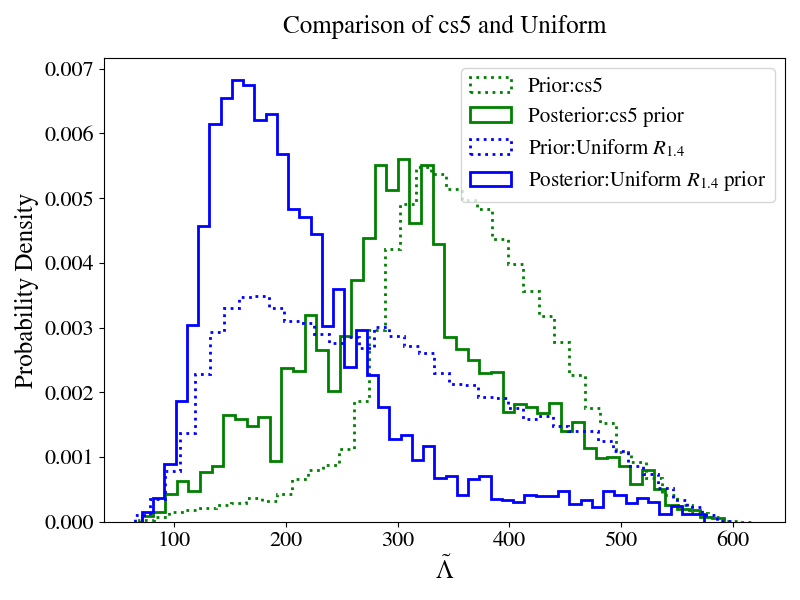
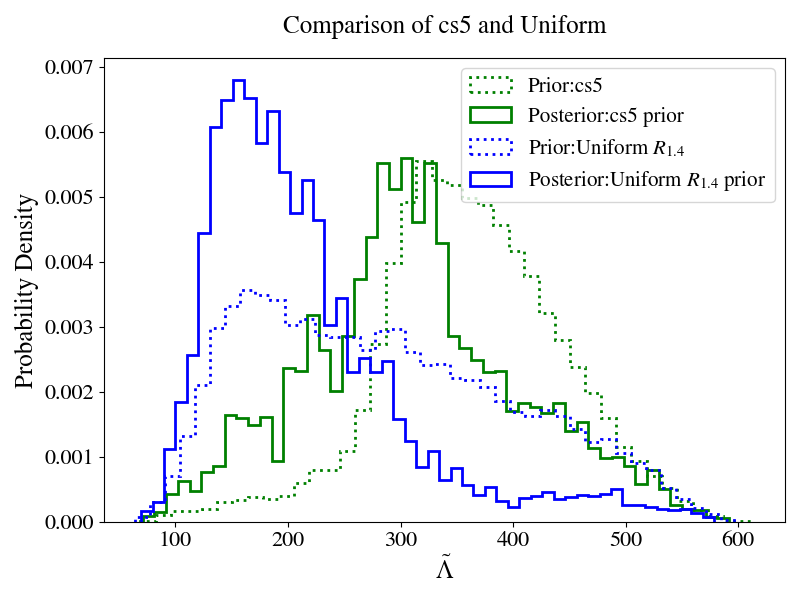
more plots with up to date uniform posterior

diff --git a/pycbc_runs/scripts/cs3prior_post_w_uniform.py b/pycbc_runs/scripts/cs3prior_post_w_uniform.py
@@ -1,0 +1,224 @@
+#! /usr/bin/env python -v
+
+import warnings
+warnings.filterwarnings('ignore')
+import numpy
+
+from matplotlib import pyplot as plt
+from matplotlib import rcParams
+rcParams['font.family'] = 'stixgeneral'
+rcParams['mathtext.fontset'] = 'stix'
+
+import pycbc
+from pycbc import conversions, cosmology
+from pycbc.distributions import Uniform, Gaussian
+from pycbc.conversions import primary_mass, secondary_mass
+
+
+labels = ['lambda1', 'lambda2', 'lambda_tilde', 'mass1', 'mass2', 'radius', 'mchirp', 'eos', 'radius_1p4']
+samples_prior_rec2nsat = {l: [] for l in labels}
+distance = 40.7
+
+dist_eos = Uniform(eos=(1, 2000.9))
+dist_m = Uniform(mass1=(1.0, 2.0), mass2=(1.0, 2.0))
+for (e,), (m1, m2) in zip(dist_eos.rvs(size=1000000), dist_m.rvs(size=1000000)):
+    #if m1 < m2:
+    #    continue
+    m1p = primary_mass(m1, m2)
+    m2s = secondary_mass(m1, m2)
+    # apply mchirp
+    mchirp = conversions.mchirp_from_mass1_mass2(m1p, m2s)
+    if not 1.1876 < mchirp < 1.2076:
+        continue
+
+    e = int(e)
+
+    MRLname = 'cs3MRL/'
+
+    tov_file = '/global/cscratch1/sd/bkingast/EOS_inference/EOS/LANL_Project_eos/' + MRLname + str(e) + '.dat'
+    data = numpy.loadtxt(tov_file)
+    radius_from_file = data[:, 0]
+    mass_from_file = data[:, 1]
+    lambda_from_file = data[:, 2]
+
+    m1_src = m1p/(1.0 + pycbc.cosmology.redshift(distance))
+    r1 = numpy.interp(m1_src, mass_from_file, radius_from_file)
+    l1 = numpy.interp(m1_src, mass_from_file, lambda_from_file)
+
+    m2_src = m2s/(1.0 + pycbc.cosmology.redshift(distance))
+    l2 = numpy.interp(m2_src, mass_from_file, lambda_from_file)
+    r2 = numpy.interp(m2_src, mass_from_file, radius_from_file)
+
+    lt = conversions.lambda_tilde(m1_src, m2_src, l1, l2)
+
+    r_1p4 = numpy.interp(1.4, mass_from_file, radius_from_file)
+
+    samples_prior_rec2nsat['mass1'].append(m1)
+    samples_prior_rec2nsat['mass2'].append(m2)
+    #samples4['mchirp'].append(mchirp)
+    #samples4['radius'].append(r)
+    #samples4['lambda_s'].append(l)
+    samples_prior_rec2nsat['lambda1'].append(l1)
+    samples_prior_rec2nsat['lambda2'].append(l2)
+    samples_prior_rec2nsat['lambda_tilde'].append(lt)
+    samples_prior_rec2nsat['radius_1p4'].append(r_1p4)
+
+
+samples_prior_uniform = {l: [] for l in labels}
+
+for (e,), (m1, m2) in zip(dist_eos.rvs(size=1000000), dist_m.rvs(size=1000000)):
+    #if m1 < m2:
+    #    continue
+    m1p = primary_mass(m1, m2)
+    m2s = secondary_mass(m1, m2)
+    # apply mchirp
+    mchirp = conversions.mchirp_from_mass1_mass2(m1p, m2s)
+    if not 1.1876 < mchirp < 1.2076:
+        continue
+
+    e = int(e)
+
+    MRLname = 'uniform/'
+
+    tov_file = '/global/cscratch1/sd/bkingast/EOS_inference/EOS/LANL_Project_eos/' + MRLname + str(e) + '.dat'
+    data = numpy.loadtxt(tov_file)
+    radius_from_file = data[:, 0]
+    mass_from_file = data[:, 1]
+    lambda_from_file = data[:, 2]
+
+    m1_src = m1p/(1.0 + pycbc.cosmology.redshift(distance))
+    r1 = numpy.interp(m1_src, mass_from_file, radius_from_file)
+    l1 = numpy.interp(m1_src, mass_from_file, lambda_from_file)
+
+    m2_src = m2s/(1.0 + pycbc.cosmology.redshift(distance))
+    l2 = numpy.interp(m2_src, mass_from_file, lambda_from_file)
+    r2 = numpy.interp(m2_src, mass_from_file, radius_from_file)
+
+    lt = conversions.lambda_tilde(m1_src, m2_src, l1, l2)
+
+    r_1p4 = numpy.interp(1.4, mass_from_file, radius_from_file)
+
+    samples_prior_uniform['mass1'].append(m1)
+    samples_prior_uniform['mass2'].append(m2)
+    #samples4['mchirp'].append(mchirp)
+    #samples4['radius'].append(r)
+    #samples4['lambda_s'].append(l)
+    samples_prior_uniform['lambda1'].append(l1)
+    samples_prior_uniform['lambda2'].append(l2)
+    samples_prior_uniform['lambda_tilde'].append(lt)
+    samples_prior_uniform['radius_1p4'].append(r_1p4)
+
+from pycbc.inference.io import loadfile
+from pycbc.conversions import lambda_tilde
+
+samples_post_rec2nsat = {l: [] for l in labels}
+
+fp=loadfile('/global/cscratch1/sd/bkingast/LANL_project/pycbc_runs/data/cs5_0829_ind.hdf','r+')
+
+#parameters = fp['samples'].keys()
+#samples = fp.read_samples(parameters, flatten=True)
+m1=primary_mass(fp['samples']['mass1'][0:8000], fp['samples']['mass2'][0:8000])
+m2=secondary_mass(fp['samples']['mass1'][0:8000], fp['samples']['mass2'][0:8000])
+l1=fp['samples']['lambda1'][0:8000]
+l2=fp['samples']['lambda2'][0:8000]
+r1p4=fp['samples']['radius_1p4'][0:8000]
+
+#m1=samples['mass1']
+samples_post_rec2nsat['mass1'] = m1
+samples_post_rec2nsat['mass2'] = m2
+samples_post_rec2nsat['lambda1'] = l1
+samples_post_rec2nsat['lambda2'] = l2
+samples_post_rec2nsat['lambda_tilde'] = lambda_tilde(m1,m2,l1,l2)
+samples_post_rec2nsat['radius_1p4'] = r1p4
+
+
+samples_post_uniform = {l: [] for l in labels}
+
+fp=loadfile('/global/cscratch1/sd/bkingast/LANL_project/pycbc_runs/data/uniform_1017_ind.hdf','r+')
+
+#parameters = fp['samples'].keys()
+#samples = fp.read_samples(parameters, flatten=True)
+m1=primary_mass(fp['samples']['mass1'][0:8000], fp['samples']['mass2'][0:8000])
+m2=secondary_mass(fp['samples']['mass1'][0:8000], fp['samples']['mass2'][0:8000])
+l1=fp['samples']['lambda1'][0:8000]
+l2=fp['samples']['lambda2'][0:8000]
+r1p4=fp['samples']['radius_1p4'][0:8000]
+
+#m1=samples['mass1']
+samples_post_uniform['mass1'] = m1
+samples_post_uniform['mass2'] = m2
+samples_post_uniform['lambda1'] = l1
+samples_post_uniform['lambda2'] = l2
+samples_post_uniform['lambda_tilde'] = lambda_tilde(m1,m2,l1,l2)
+samples_post_uniform['radius_1p4'] = r1p4
+
+# plot lambda_tilde priors and posterior
+fig, ax = plt.subplots(1, 1, figsize=(8, 6))
+params = ['lambda_s']
+ax_labels = [r'$\tilde \Lambda$']
+#ax_bounds = [(0, 5000), (0, 5000), (0, 5000), (1.6, 18)]
+#for a, p, l, b in zip(ax.flatten(), params, ax_labels, ax_bounds):
+#for a, p, l in zip(ax.flatten(), params, ax_labels):
+#max_param_val = int(max(samples4[p]))
+#num_bins = max_param_val/100 if max_param_val > 2 else 50
+num_bins = 50
+#ax.hist(samples_prior_unilam['lambda_tilde'], bins=40, histtype='step',
+#        facecolor='None', edgecolor='red', ls='dotted', lw=2,
+#            density=True, label=r"Prior: Uniform $\tilde \Lambda$")
+# ax.hist(samples_post_un['lambda_tilde'], bins=num_bins, histtype='step',
+#         facecolor='None', edgecolor='red', ls='solid', lw=2,
+#         density=True, label=r"Posterior: Uniform $\tilde \Lambda$ prior")
+ax.hist(samples_prior_rec2nsat['lambda_tilde'], bins=40, histtype='step',
+        facecolor='None', edgecolor='g', ls='dotted', lw=2, density=True, label=r"Prior:cs3")
+ax.hist(samples_post_rec2nsat['lambda_tilde'], bins=num_bins, histtype='step',
+        facecolor='None', edgecolor='g', ls='solid', lw=2,
+        density=True, label=r"Posterior:cs3 prior")
+#ax.set(xlabel=l)
+#         density=True, label=r"Posterior: Uniform $\tilde \Lambda$ prior")
+ax.hist(samples_prior_uniform['lambda_tilde'], bins=40, histtype='step',
+        facecolor='None', edgecolor='b', ls='dotted', lw=2, density=True, label=r"Prior:Uniform $R_{1.4}$")
+ax.hist(samples_post_uniform['lambda_tilde'], bins=num_bins, histtype='step',
+        facecolor='None', edgecolor='b', ls='solid', lw=2,
+        density=True, label=r"Posterior:Uniform $R_{1.4}$ prior") 
+#ax.xaxis.label.set_size(22)
+#ax.yaxis.label.set_size(22)
+
+plt.tick_params(axis='both', which='major', labelsize=16)
+plt.xlabel(r"$\tilde \Lambda$", fontsize=18)
+plt.ylabel(r"Probability Density", fontsize=18)
+plt.legend(fontsize=15)
+plt.title('Comparison of cs3 and Uniform', fontsize=18, pad=18)
+plt.tight_layout()
+plt.savefig("../plots/cs3_lambda_prior_post.png")
+
+# plot lambda_tilde priors and posterior
+fig, ax = plt.subplots(1, 1, figsize=(8, 6))
+#ax_bounds = [(0, 5000), (0, 5000), (0, 5000), (1.6, 18)]
+#for a, p, l, b in zip(ax.flatten(), params, ax_labels, ax_bounds):
+#for a, p, l in zip(ax.flatten(), params, ax_labels):
+#max_param_val = int(max(samples4[p]))
+#num_bins = max_param_val/100 if max_param_val > 2 else 50
+num_bins = 50
+
+ax.hist(samples_prior_rec2nsat['radius_1p4'], bins=40, histtype='step',
+        facecolor='None', edgecolor='g', ls='dotted', lw=2, density=True, label=r"Prior:cs3")
+ax.hist(samples_post_rec2nsat['radius_1p4'], bins=num_bins, histtype='step',
+        facecolor='None', edgecolor='g', ls='solid', lw=2,
+        density=True, label=r"Posterior:cs3 prior")
+
+ax.hist(samples_prior_uniform['radius_1p4'], bins=40, histtype='step',
+        facecolor='None', edgecolor='b', ls='dotted', lw=2, density=True, label=r"Prior:Uniform $R_{1.4}$")
+ax.hist(samples_post_uniform['radius_1p4'], bins=num_bins, histtype='step',
+        facecolor='None', edgecolor='b', ls='solid', lw=2,
+        density=True, label=r"Posterior:Uniform $R_{1.4}$ prior")
+#ax.set(xlabel=l)
+#ax.xaxis.label.set_size(22)
+#ax.yaxis.label.set_size(22)
+
+plt.tick_params(axis='both', which='major', labelsize=16)
+plt.xlabel(r"$R_{1.4}$ (km)", fontsize=18)
+plt.ylabel(r"Probability Density", fontsize=18)
+plt.legend(fontsize=15, loc="upper left")
+plt.title('Comparison of lin5 and Uniform', fontsize=18, pad=18)
+plt.tight_layout()
+plt.savefig("../plots/cs3_r1p4_prior_post.png")
